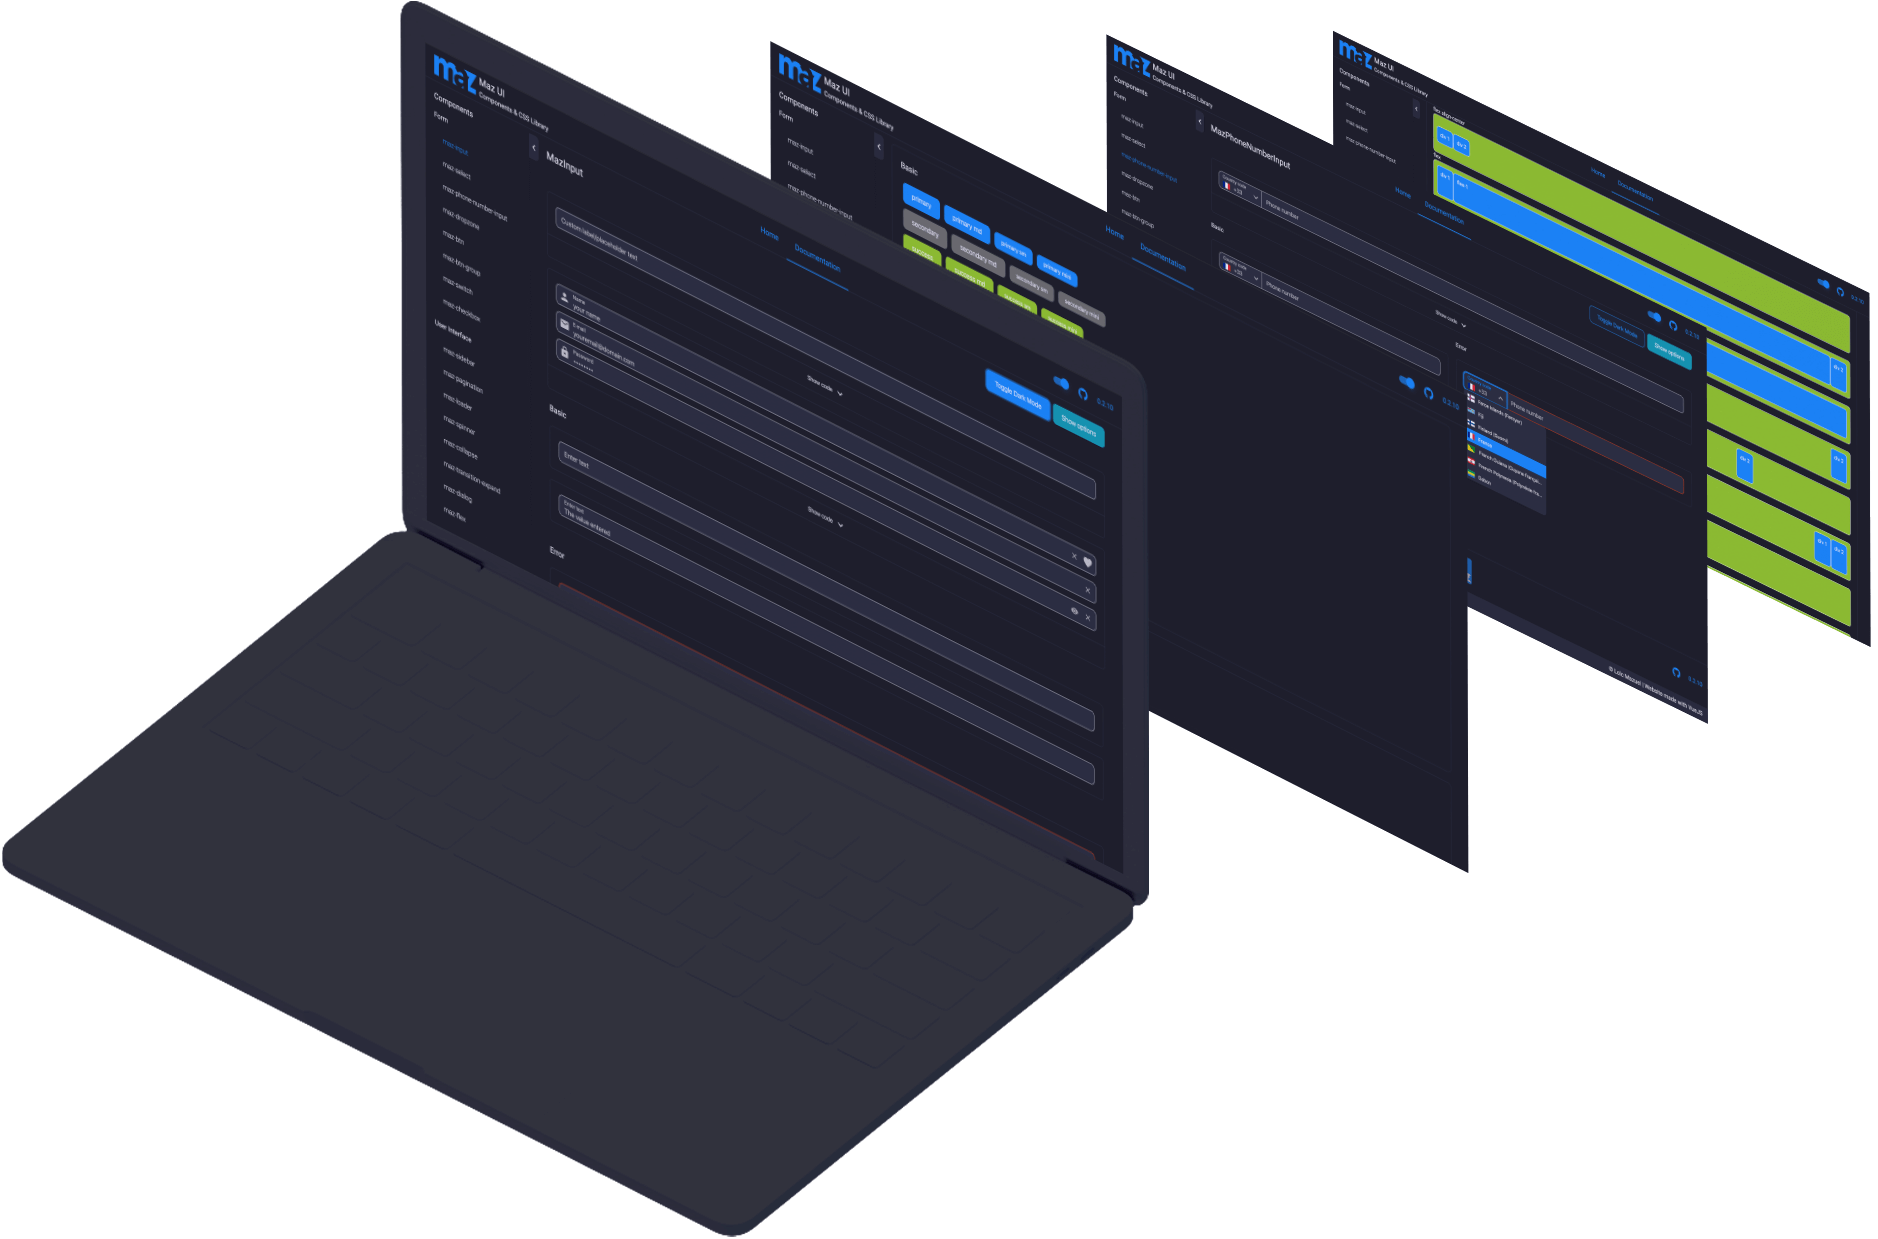
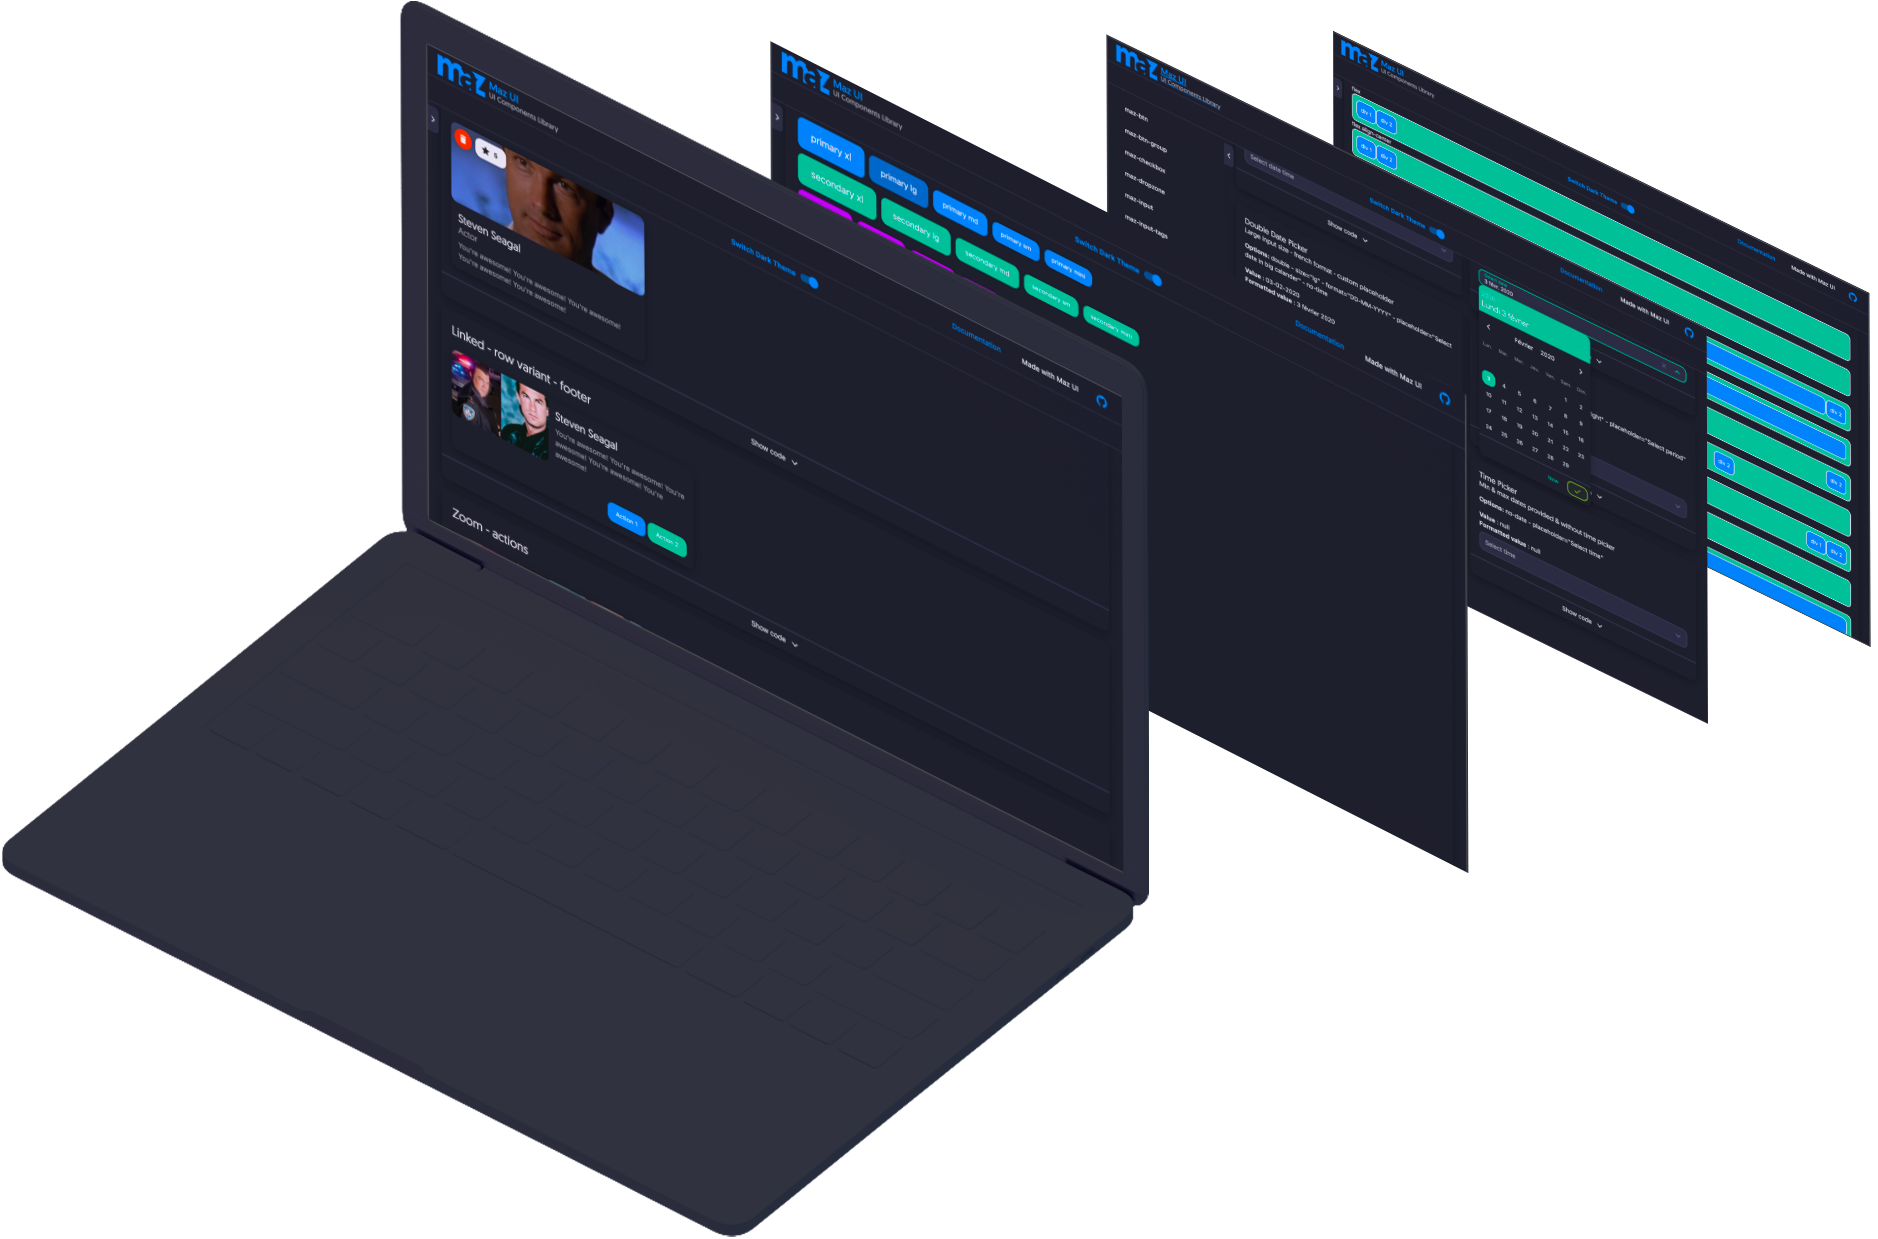
refactor(home): update illustration

diff --git a/documentation/pages/documentation/maz-card/index.vue b/documentation/pages/documentation/maz-card/index.vue
@@ -4,12 +4,12 @@
       code="<template>
   <MazCard
     :images=&quot;[
-      'https://www.fillmurray.com/640/500'
+      'https://www.stevensegallery.com/600/800'
     ]&quot;
   >
     <template #title>
       <h4>
-        Bill Murray
+        Steven Seagal
       </h4>
     </template>
     <template #subtitle>
@@ -46,12 +46,12 @@
       </h3>
       <MazCard
         :images="[
-          'https://www.fillmurray.com/640/500'
+          'https://www.stevensegallery.com/600/800'
         ]"
       >
         <template #title>
           <h4>
-            Bill Murray
+            Steven Seagal
           </h4>
         </template>
         <template #subtitle>
@@ -85,18 +85,18 @@
     <ComponentContainer
       code="<template>
   <MazCard
-    href=&quot;https://www.fillmurray.com/640/500&quot;
+    href=&quot;https://www.stevensegallery.com/640/500&quot;
     href-target=&quot;_blank&quot;
     :max-width=&quot;500&quot;
     variant=&quot;row&quot;
     :images=&quot;[
-      'https://www.fillmurray.com/640/500',
-      'https://www.fillmurray.com/740/600'
+      'https://www.stevensegallery.com/640/500',
+      'https://www.stevensegallery.com/740/600'
     ]&quot;
   >
     <template #title>
       <h4>
-        Bill Murray
+        Steven Seagal
       </h4>
     </template>
     <template #content>
@@ -124,18 +124,18 @@
         Linked - row variant - footer
       </h3>
       <MazCard
-        href="https://www.fillmurray.com/640/500"
+        href="https://www.stevensegallery.com/640/500"
         href-target="_blank"
         :max-width="500"
         variant="row"
         :images="[
-          'https://www.fillmurray.com/640/500',
-          'https://www.fillmurray.com/740/600'
+          'https://www.stevensegallery.com/640/500',
+          'https://www.stevensegallery.com/740/600'
         ]"
       >
         <template #title>
           <h4>
-            Bill Murray
+            Steven Seagal
           </h4>
         </template>
         <template #content>
@@ -163,8 +163,8 @@
       code="<template>
   <MazCard
     :images=&quot;[
-      'https://www.fillmurray.com/640/500',
-      'https://www.fillmurray.com/740/600'
+      'https://www.stevensegallery.com/640/500',
+      'https://www.stevensegallery.com/740/600'
     ]&quot;
     zoom
   >
@@ -191,8 +191,8 @@
       </h3>
       <MazCard
         :images="[
-          'https://www.fillmurray.com/640/500',
-          'https://www.fillmurray.com/740/600'
+          'https://www.stevensegallery.com/640/500',
+          'https://www.stevensegallery.com/740/600'
         ]"
         zoom
       >
@@ -223,12 +223,12 @@
       variant=&quot;row&quot;
       :width=&quot;400&quot;
       :images=&quot;[
-        'https://www.fillmurray.com/640/500'
+        'https://www.stevensegallery.com/800/800'
       ]&quot;
     >
       <template #title>
         <h4>
-          Bill Murray
+          Steven Seagal
         </h4>
       </template>
       <template #content>
@@ -253,7 +253,7 @@
       <MazCarousel>
         <template #title>
           <h4>
-            Bill Murray Carousel
+            Steven Seagal Carousel
           </h4>
         </template>
         <MazCard
@@ -262,12 +262,12 @@
           variant="row"
           :width="400"
           :images="[
-            'https://www.fillmurray.com/640/500'
+            'https://www.stevensegallery.com/800/800'
           ]"
         >
           <template #title>
             <h5>
-              Bill Murray
+              Steven Seagal
             </h5>
           </template>
           <template #content>
@@ -303,7 +303,7 @@
     data () {
       return {
         images: [
-          'https://www.fillmurray.com/640/500'
+          'https://www.stevensegallery.com/640/500'
         ]
       }
     }

diff --git a/documentation/pages/documentation/maz-gallery/index.vue b/documentation/pages/documentation/maz-gallery/index.vue
@@ -4,12 +4,12 @@
       code="<template>
   <MazGallery
     :images=&quot;[
-      'https://www.fillmurray.com/640/500',
-      { slug: 'https://www.fillmurray.com/640/600', alt: 'image description' },
-      { slug: 'https://www.fillmurray.com/640/700', alt: 'image description' },
-      'https://www.fillmurray.com/640/800',
-      'https://www.fillmurray.com/640/1000',
-      'https://www.fillmurray.com/800/800'
+      'https://www.stevensegallery.com/640/500',
+      { slug: 'https://www.stevensegallery.com/640/600', alt: 'image description' },
+      { slug: 'https://www.stevensegallery.com/640/700', alt: 'image description' },
+      'https://www.stevensegallery.com/640/800',
+      'https://www.stevensegallery.com/640/1000',
+      'https://www.stevensegallery.com/800/800'
     ]&quot;
     :height=&quot;400&quot;
   />
@@ -17,12 +17,12 @@
     >
       <MazGallery
         :images="[
-          'https://www.fillmurray.com/640/500',
-          { slug: 'https://www.fillmurray.com/640/600', alt: 'image description' },
-          { slug: 'https://www.fillmurray.com/640/700', alt: 'image description' },
-          'https://www.fillmurray.com/640/800',
-          'https://www.fillmurray.com/640/1000',
-          'https://www.fillmurray.com/800/800'
+          'https://www.stevensegallery.com/640/500',
+          { slug: 'https://www.stevensegallery.com/640/600', alt: 'image description' },
+          { slug: 'https://www.stevensegallery.com/640/700', alt: 'image description' },
+          'https://www.stevensegallery.com/640/800',
+          'https://www.stevensegallery.com/640/1000',
+          'https://www.stevensegallery.com/800/800'
         ]"
         :height="400"
       />
@@ -52,12 +52,12 @@
     data () {
       return {
         images: [
-          'https://www.fillmurray.com/640/500',
-          { slug: 'https://www.fillmurray.com/640/600', alt: 'image description' },
-          { slug: 'https://www.fillmurray.com/640/700', alt: 'image description' },
-          'https://www.fillmurray.com/640/800',
-          'https://www.fillmurray.com/640/1000',
-          'https://www.fillmurray.com/800/800'
+          'https://www.stevensegallery.com/640/500',
+          { slug: 'https://www.stevensegallery.com/640/600', alt: 'image description' },
+          { slug: 'https://www.stevensegallery.com/640/700', alt: 'image description' },
+          'https://www.stevensegallery.com/640/800',
+          'https://www.stevensegallery.com/640/1000',
+          'https://www.stevensegallery.com/800/800'
         ]
       }
     }

diff --git a/documentation/pages/documentation/maz-carousel/index.vue b/documentation/pages/documentation/maz-carousel/index.vue
@@ -7,12 +7,12 @@
       v-for=&quot;(item, i) in Array(8)&quot;
       :key=&quot;i&quot;
       :images=&quot;[
-        'https://www.fillmurray.com/640/500'
+        'https://www.stevensegallery.com/650/750'
       ]&quot;
     >
       <template #title>
         <h4>
-          Bill Murray
+          Steven Seagal
         </h4>
       </template>
       <template #content>
@@ -27,19 +27,19 @@
       <MazCarousel>
         <template #title>
           <h4>
-            Bill Murray Carousel
+            Steven Seagal Carousel
           </h4>
         </template>
         <MazCard
           v-for="(item, i) in Array(8)"
           :key="i"
           :images="[
-            'https://www.fillmurray.com/640/500'
+            'https://www.stevensegallery.com/650/750'
           ]"
         >
           <template #title>
             <h5>
-              Bill Murray
+              Steven Seagal
             </h5>
           </template>
           <template #content>

diff --git a/packages/scss/style-helpers/text.scss b/packages/scss/style-helpers/text.scss
@@ -23,7 +23,11 @@
 }
 
 .#{$prefix}text-strong {
-  font-weight: 500;
+  font-weight: 600;
+}
+
+.#{$prefix}text-bold {
+  font-weight: bold;
 }
 
 .#{$prefix}text-center {
